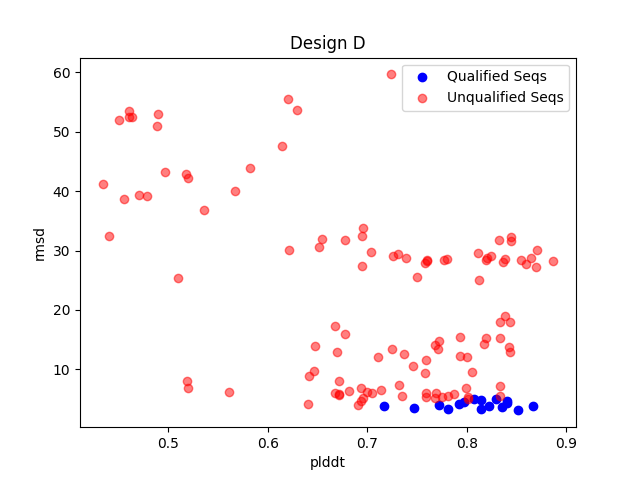
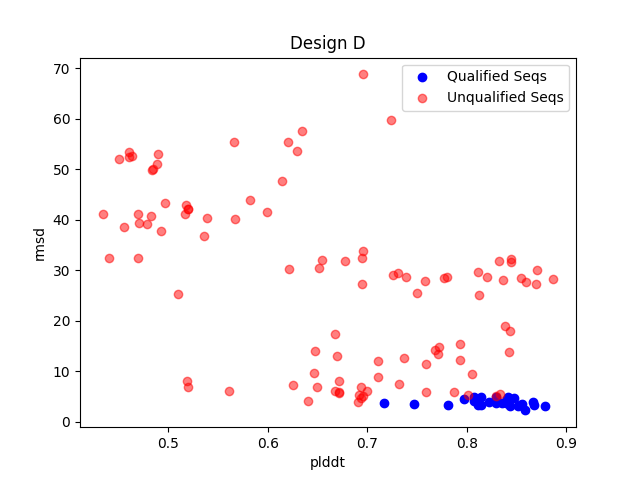
more data

diff --git a/main.py b/main.py
@@ -1,9 +1,10 @@
 from proccess import process_and_plot as pplot
 
-design_identity = "E"
-# folders = ["temp0.2", "temp0.3"]
-folders = ["temp0.2", "temp0.3", "temp0.4"]
+design_identity = "D"
+folders = ["temp0.2", "temp0.3"]
+# folders = ["temp0.2", "temp0.3", "temp0.4"]
 # folders = ["temp0.2"]
+# folders = ["temp0.3"]
 
 # pplot("E", ["temp0.3"], split_pdb="first", source="E F")
 # pplot("F", ["temp0.3"], split_pdb="second", source="E F")
